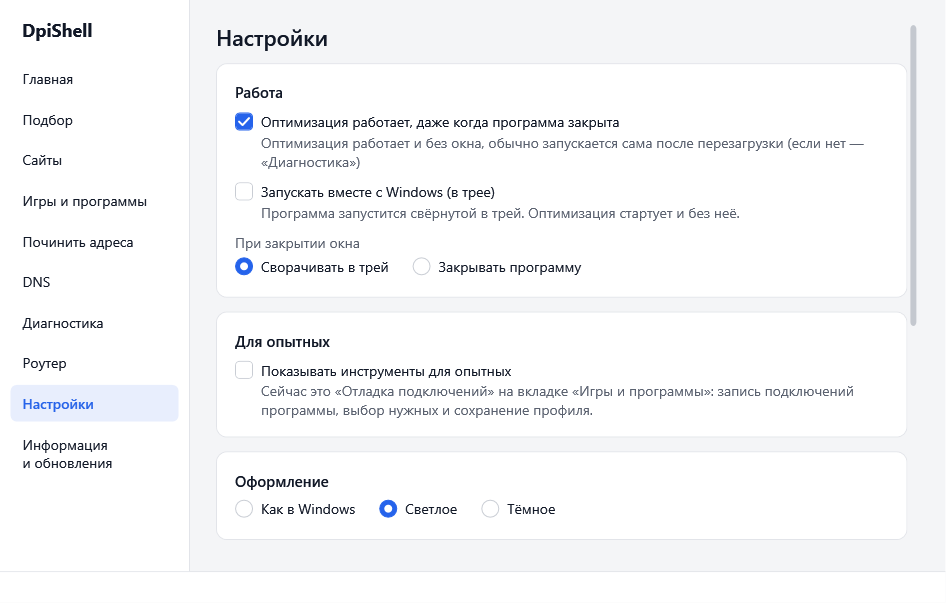
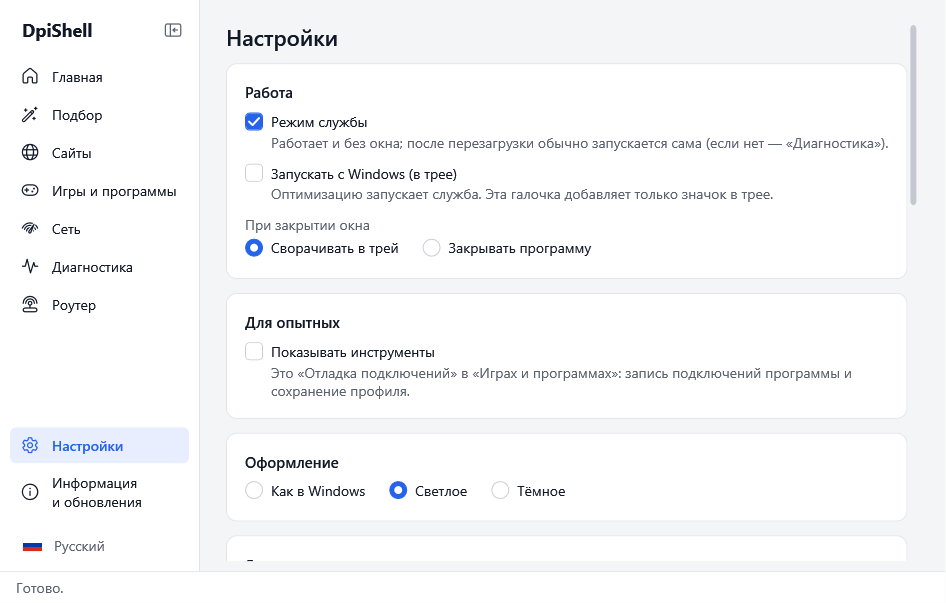
README: снимки нового окна (главная, «Сеть», «Сайты», «Настройки» и др.), съёмщик под новую главную

diff --git a/tests/DpiShell.Tests/WindowSmokeTests.Demo.cs b/tests/DpiShell.Tests/WindowSmokeTests.Demo.cs
@@ -45,11 +45,9 @@ public sealed partial class WindowSmokeTests
                     var vm = TestWindow.Model(shell, link, settings);
                     vm.Apps.ListProcesses = () => [new(900, "chrome.exe", "Новая вкладка"), new(2000, "game.exe", "Моя игра")];
                     Fill(vm, shell);
-                    // «Сайты»: формат ввода — на example.com (это поле не размыто), список сохранён.
-                    vm.TargetsText = "example.com\r\nvideo.example.com\r\nchat.example.org\r\nhttps://cdn.example.net/";
-                    vm.SaveTargetsCmd.Execute(null);
-                    for (int i = 0; i < 500 && vm.TargetsDirty; i++) { Pump(); Thread.Sleep(10); }
-                    if (vm.TargetsDirty) throw new Exception("Список сайтов не сохранился: " + vm.TargetsMessage);
+                    // «Сайты»: формат ввода — на example.com (это поле не размыто). Список — сразу в данные помощника, затем окно перечитывает.
+                    shell.SetUserTargets(["example.com", "video.example.com", "chat.example.org", "https://cdn.example.net/"]);
+                    WaitUi((Task)typeof(MainViewModel).GetMethod("FetchAsync", System.Reflection.BindingFlags.Instance | System.Reflection.BindingFlags.NonPublic)!.Invoke(vm, [false])!);
                     // Ничего с машины: шлюз и TCP-метки роутера — подмена (иначе читались бы настройки Windows).
                     vm.Router.Gateway = () => "192.168.1.1";
                     vm.Router.PcTimestamps = () => true;
@@ -68,18 +66,12 @@ public sealed partial class WindowSmokeTests
                         Snap(w, Path.Combine(dir, $"{theme}-{name}.png"));
                     }
 
-                    // Главная: «Подробнее» проверки (адреса DNS этого компьютера — размыты), затем список стратегий.
+                    // Главная: список стратегий (новая главная — «Подробнее» проверки на плитке, отдельного снимка не нужно).
                     vm.GoTo(Pages.Home);
-                    Pump();
-                    var more = Find<System.Windows.Controls.Expander>(Find<System.Windows.Controls.TabControl>(w)!, e => e.Header as string == "Подробнее" && e.IsVisible)
-                        ?? throw new Exception("На главной нет «Подробнее» проверки");
-                    more.IsExpanded = true;
-                    Pump();
-                    Snap(w, Path.Combine(dir, $"{theme}-home-details.png"));
-                    more.IsExpanded = false;
                     vm.ShowStrategies = true;
                     Pump();
                     Snap(w, Path.Combine(dir, $"{theme}-home-strategies.png"));
+                    vm.ShowStrategies = false;
 
                     // Роутер подключён: FakeRouter в процессе (loopback), пароль не сохраняется на диск вне временной папки.
                     using var fake = new FakeRouter().As020().AsR8();
@@ -90,6 +82,10 @@ public sealed partial class WindowSmokeTests
                     vm.GoTo(Pages.Router);
                     Pump();
                     Snap(w, Path.Combine(dir, $"{theme}-router.png"));
+                    // Главная с роутером: строки «Этот ПК» и «Роутер».
+                    vm.GoTo(Pages.Home);
+                    Pump();
+                    Snap(w, Path.Combine(dir, $"{theme}-home-router.png"));
 
                     // «Игры и программы»: простой режим «Начать» → «Готово» → «Заработало?» (профиль в списке), затем для опытных — запись со списком.
                     vm.GoTo(Pages.Apps);
